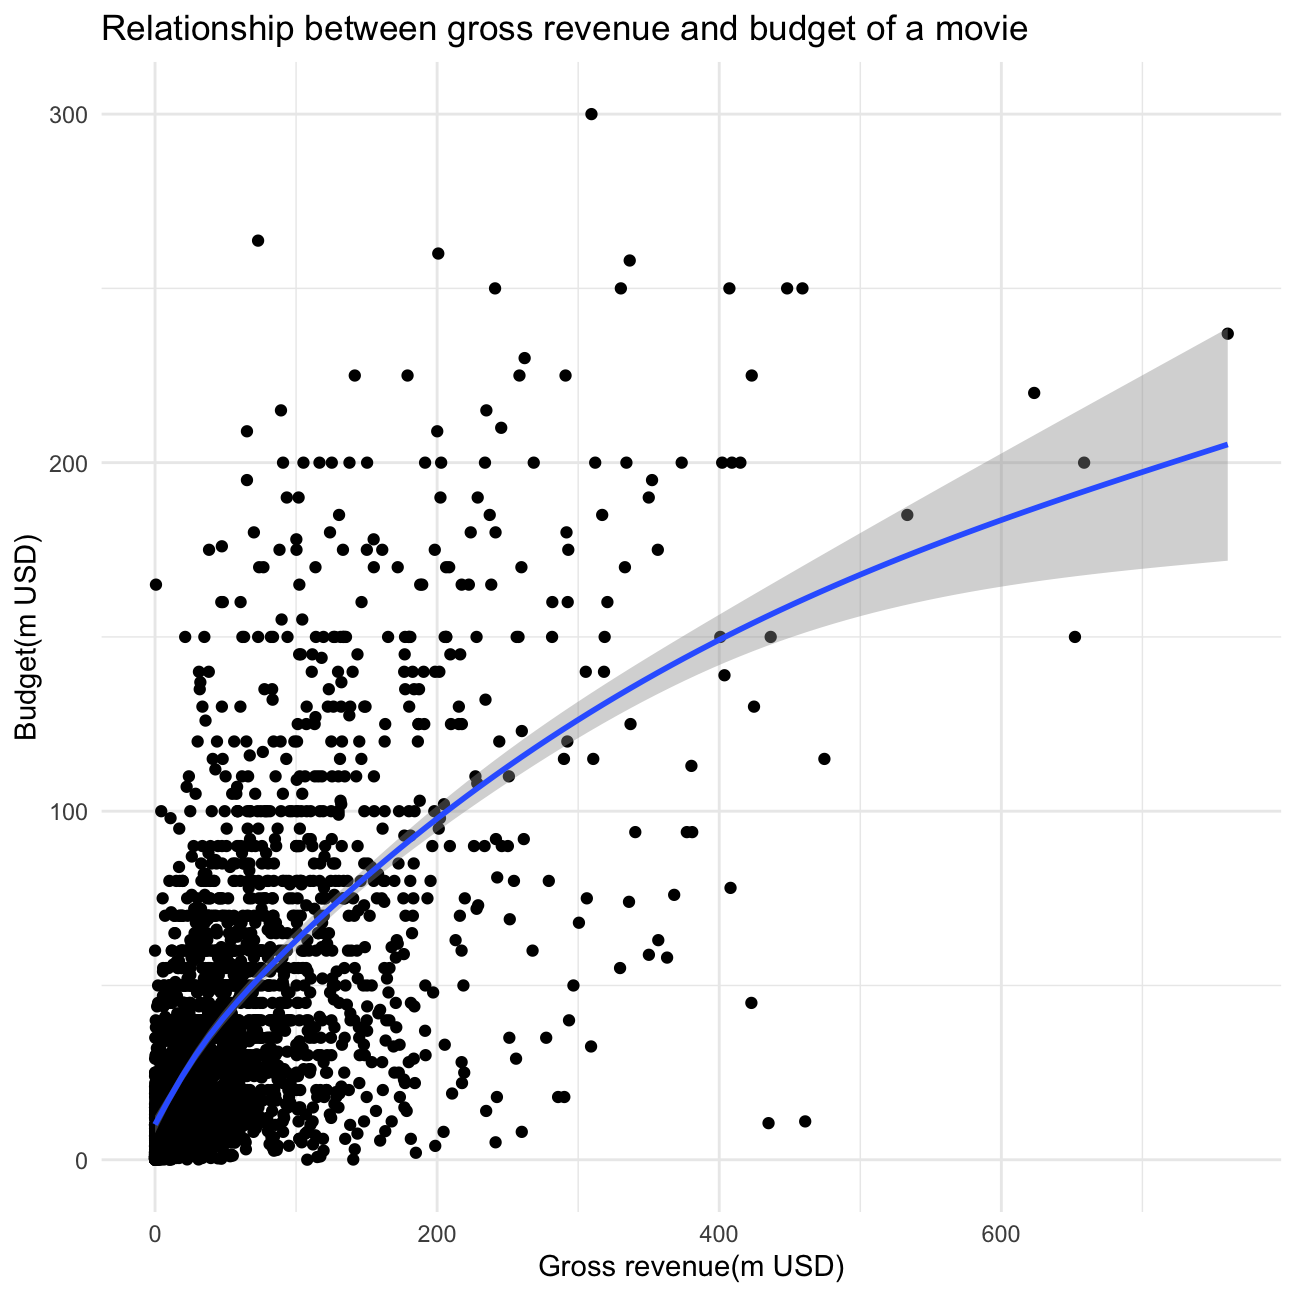
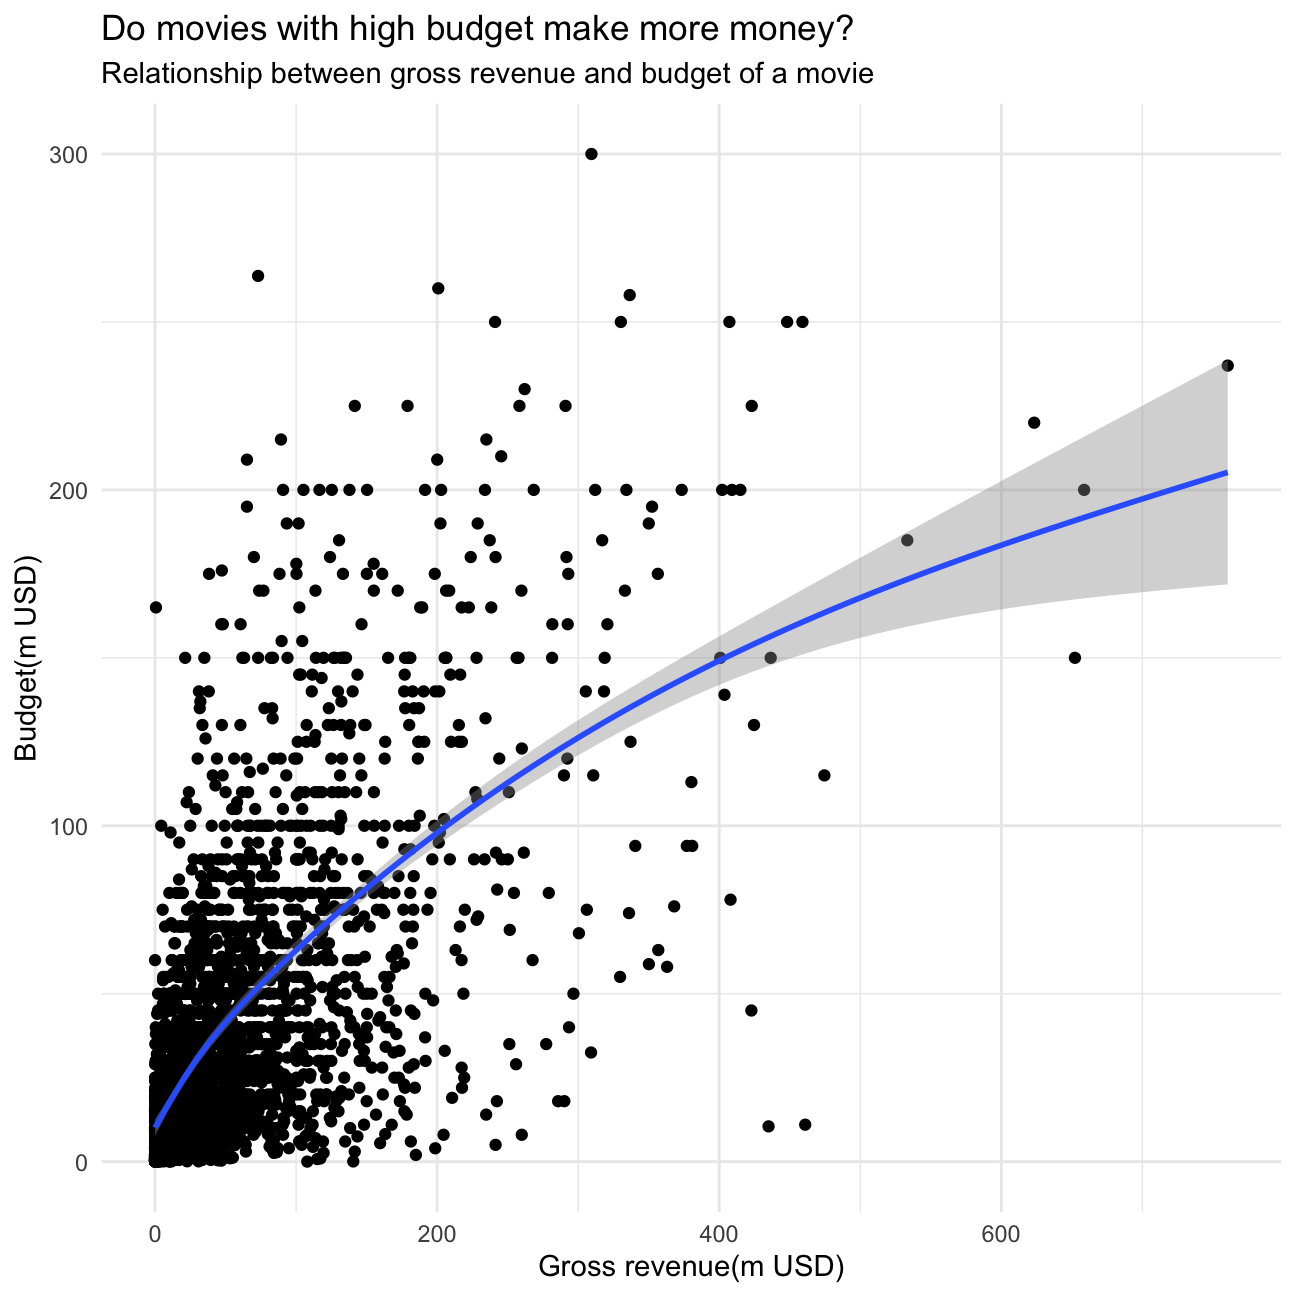
final changes1

diff --git a/content/blogs/blog5.html b/content/blogs/blog5.html
@@ -1876,14 +1876,17 @@ NA
 </table>
 <p>Now, we can see that the audience is particularly fond of watching biographies, crime, mystery, and drama movies.</p>
 <pre class="r"><code>  #Plot a histogram using movies dataframe, x axis shows rating
-  ggplot(data = movies, mapping = aes(x = rating) ) +
+ dist_movies &lt;-  ggplot(data = movies, mapping = aes(x = rating) ) +
   #Choose white for color of bin lines
       geom_histogram(color=&quot;white&quot;) +
   #Add title for the plot and x and y axis
       labs(title=&quot;Distribution of ratings&quot;, x=&quot;Rating&quot;, y=&quot;Number of movies&quot;) +
   #Choose the theme minimal for the plot styling
-      theme_minimal() </code></pre>
+      theme_minimal() 
+dist_movies</code></pre>
 <p><img src="/blogs/blog5_files/figure-html/ratings_genre_plot-1.png" width="648" style="display: block; margin: auto;" /></p>
+<pre class="r"><code>dist_movies + facet_wrap(~genre) </code></pre>
+<p><img src="/blogs/blog5_files/figure-html/ratings_genre_plot-2.png" width="648" style="display: block; margin: auto;" /></p>
 <p>This histogram clearly shows that most movies tend to obtain IMDB ratings between 5 and 7.5.</p>
 <p>Now, I will examine the relationships between some variables for the next few analysis. Firstly, I will produce a scatter plot to see whether the number of facebook likes that the cast has received is likely to be a good predictor of how much money a movie will make at the box office.</p>
 <pre class="r"><code>#We will plot a scatterplot with movies data, we will map the number of facebook likes that the cast received in thousands on the x axis and gross earnings in millions on the y axis.
@@ -1905,10 +1908,11 @@ ggplot(data = movies, aes(x=cast_facebook_likes/1000, y=gross/1000000)) +
   scale_y_log10() + 
   scale_x_log10() +
   # Finally we will label our plot again
-  labs(title = &quot;box office earnings on number of facebook likes&quot;,
-       subtitle = &quot;logarithmic scales&quot;,
+  labs(title = &quot;Suggestion for producers: Find a way to increase your likes on Facebook&quot;,
+       subtitle = &quot;Box office earnings on number of facebook likes logarithmic scales&quot;,
        x = &quot;Number of facebook likes(k)&quot;,
-       y = &quot;Gross earning(m USD)&quot;)</code></pre>
+       y = &quot;Gross earning(m USD)&quot;) +
+  theme_minimal()</code></pre>
 <p><img src="/blogs/blog5_files/figure-html/gross_on_ggplot2-1.png" width="648" style="display: block; margin: auto;" /></p>
 <p>From this plot, we can actually see that there exists a correlation between the gross earnings and the Number of Facebook Likes! So this means that while producing a movie, we should definitely consider allocating some budget to marketing the movie on Facebook through the best possible way!</p>
 <p>Now let me take a look at a scatter plot between the budget of the film and its gross revenues at the box office. We want to see if we really do need to spend a lot of money out of our pockets while creating the film to ensure that it performs well at the box office!</p>
@@ -1918,7 +1922,7 @@ ggplot(data = movies, mapping = aes(x=gross/1000000, y=budget/1000000)) +
 #We will draw a line of best fit to better understand the trend
       geom_smooth() +
 #We will add titles
-      labs(title=&quot;Relationship between gross revenue and budget of a movie&quot;, x=&quot;Gross revenue(m USD)&quot;, y=&quot;Budget(m USD)&quot;) +
+      labs(title= &quot;Do movies with high budget make more money?&quot;, subtitle= &quot;Relationship between gross revenue and budget of a movie&quot;, x=&quot;Gross revenue(m USD)&quot;, y=&quot;Budget(m USD)&quot;) +
 #Choose theme minimal for plot syling
       theme_minimal()       </code></pre>
 <p><img src="/blogs/blog5_files/figure-html/gross_budget_scatter-1.png" width="648" style="display: block; margin: auto;" /></p>
@@ -1932,7 +1936,8 @@ ggplot(data = movies, mapping = aes(x=rating, y=gross/1000000)) +
       #Adding a fitting line using the geom_smooth function
       geom_smooth() +
       #Add title for plot and axis
-      labs(title=&quot;Relationship between gross revenue and rating by genre&quot;, x=&quot;Rating&quot;, y=&quot;Gross revenue(m USD)&quot;) </code></pre>
+      labs(title= &quot;Does a high rating make a movie more profitable?&quot;, subtitle= &quot;Relationship between revenue and ratings per genre&quot;, x=&quot;Rating&quot;, y=&quot;Gross revenue(m USD)&quot;) +
+      theme_minimal()</code></pre>
 <p><img src="/blogs/blog5_files/figure-html/gross_on_rating-1.png" width="648" style="display: block; margin: auto;" /></p>
 <p>Action and Adventure movies with high IMDb ratings have gained better box office revenue so you might think ratings are a good predictor of the box office earnings. But this trend changes according to the genre, we see that for example gross revenue for Comedy, Crime and Drama genres are not sensitive to rating and follow a straight line. And finally, for Musical, Romance and Western movies we don’t have much data to make an inference. Therefore, IMDB ratings are not always an indicator of how much a movie will make.</p>
 <p>At the end, we are able to ascertain a few important points:</p>

diff --git a/public/blogs/blog5/index.html b/public/blogs/blog5/index.html
@@ -1942,14 +1942,17 @@ NA
 </table>
 <p>Now, we can see that the audience is particularly fond of watching biographies, crime, mystery, and drama movies.</p>
 <pre class="r"><code>  #Plot a histogram using movies dataframe, x axis shows rating
-  ggplot(data = movies, mapping = aes(x = rating) ) +
+ dist_movies &lt;-  ggplot(data = movies, mapping = aes(x = rating) ) +
   #Choose white for color of bin lines
       geom_histogram(color=&quot;white&quot;) +
   #Add title for the plot and x and y axis
       labs(title=&quot;Distribution of ratings&quot;, x=&quot;Rating&quot;, y=&quot;Number of movies&quot;) +
   #Choose the theme minimal for the plot styling
-      theme_minimal() </code></pre>
+      theme_minimal() 
+dist_movies</code></pre>
 <p><img src="/blogs/blog5_files/figure-html/ratings_genre_plot-1.png" width="648" style="display: block; margin: auto;" /></p>
+<pre class="r"><code>dist_movies + facet_wrap(~genre) </code></pre>
+<p><img src="/blogs/blog5_files/figure-html/ratings_genre_plot-2.png" width="648" style="display: block; margin: auto;" /></p>
 <p>This histogram clearly shows that most movies tend to obtain IMDB ratings between 5 and 7.5.</p>
 <p>Now, I will examine the relationships between some variables for the next few analysis. Firstly, I will produce a scatter plot to see whether the number of facebook likes that the cast has received is likely to be a good predictor of how much money a movie will make at the box office.</p>
 <pre class="r"><code>#We will plot a scatterplot with movies data, we will map the number of facebook likes that the cast received in thousands on the x axis and gross earnings in millions on the y axis.
@@ -1971,10 +1974,11 @@ ggplot(data = movies, aes(x=cast_facebook_likes/1000, y=gross/1000000)) +
   scale_y_log10() + 
   scale_x_log10() +
   # Finally we will label our plot again
-  labs(title = &quot;box office earnings on number of facebook likes&quot;,
-       subtitle = &quot;logarithmic scales&quot;,
+  labs(title = &quot;Suggestion for producers: Find a way to increase your likes on Facebook&quot;,
+       subtitle = &quot;Box office earnings on number of facebook likes logarithmic scales&quot;,
        x = &quot;Number of facebook likes(k)&quot;,
-       y = &quot;Gross earning(m USD)&quot;)</code></pre>
+       y = &quot;Gross earning(m USD)&quot;) +
+  theme_minimal()</code></pre>
 <p><img src="/blogs/blog5_files/figure-html/gross_on_ggplot2-1.png" width="648" style="display: block; margin: auto;" /></p>
 <p>From this plot, we can actually see that there exists a correlation between the gross earnings and the Number of Facebook Likes! So this means that while producing a movie, we should definitely consider allocating some budget to marketing the movie on Facebook through the best possible way!</p>
 <p>Now let me take a look at a scatter plot between the budget of the film and its gross revenues at the box office. We want to see if we really do need to spend a lot of money out of our pockets while creating the film to ensure that it performs well at the box office!</p>
@@ -1984,7 +1988,7 @@ ggplot(data = movies, mapping = aes(x=gross/1000000, y=budget/1000000)) +
 #We will draw a line of best fit to better understand the trend
       geom_smooth() +
 #We will add titles
-      labs(title=&quot;Relationship between gross revenue and budget of a movie&quot;, x=&quot;Gross revenue(m USD)&quot;, y=&quot;Budget(m USD)&quot;) +
+      labs(title= &quot;Do movies with high budget make more money?&quot;, subtitle= &quot;Relationship between gross revenue and budget of a movie&quot;, x=&quot;Gross revenue(m USD)&quot;, y=&quot;Budget(m USD)&quot;) +
 #Choose theme minimal for plot syling
       theme_minimal()       </code></pre>
 <p><img src="/blogs/blog5_files/figure-html/gross_budget_scatter-1.png" width="648" style="display: block; margin: auto;" /></p>
@@ -1998,7 +2002,8 @@ ggplot(data = movies, mapping = aes(x=rating, y=gross/1000000)) +
       #Adding a fitting line using the geom_smooth function
       geom_smooth() +
       #Add title for plot and axis
-      labs(title=&quot;Relationship between gross revenue and rating by genre&quot;, x=&quot;Rating&quot;, y=&quot;Gross revenue(m USD)&quot;) </code></pre>
+      labs(title= &quot;Does a high rating make a movie more profitable?&quot;, subtitle= &quot;Relationship between revenue and ratings per genre&quot;, x=&quot;Rating&quot;, y=&quot;Gross revenue(m USD)&quot;) +
+      theme_minimal()</code></pre>
 <p><img src="/blogs/blog5_files/figure-html/gross_on_rating-1.png" width="648" style="display: block; margin: auto;" /></p>
 <p>Action and Adventure movies with high IMDb ratings have gained better box office revenue so you might think ratings are a good predictor of the box office earnings. But this trend changes according to the genre, we see that for example gross revenue for Comedy, Crime and Drama genres are not sensitive to rating and follow a straight line. And finally, for Musical, Romance and Western movies we don’t have much data to make an inference. Therefore, IMDB ratings are not always an indicator of how much a movie will make.</p>
 <p>At the end, we are able to ascertain a few important points:</p>
